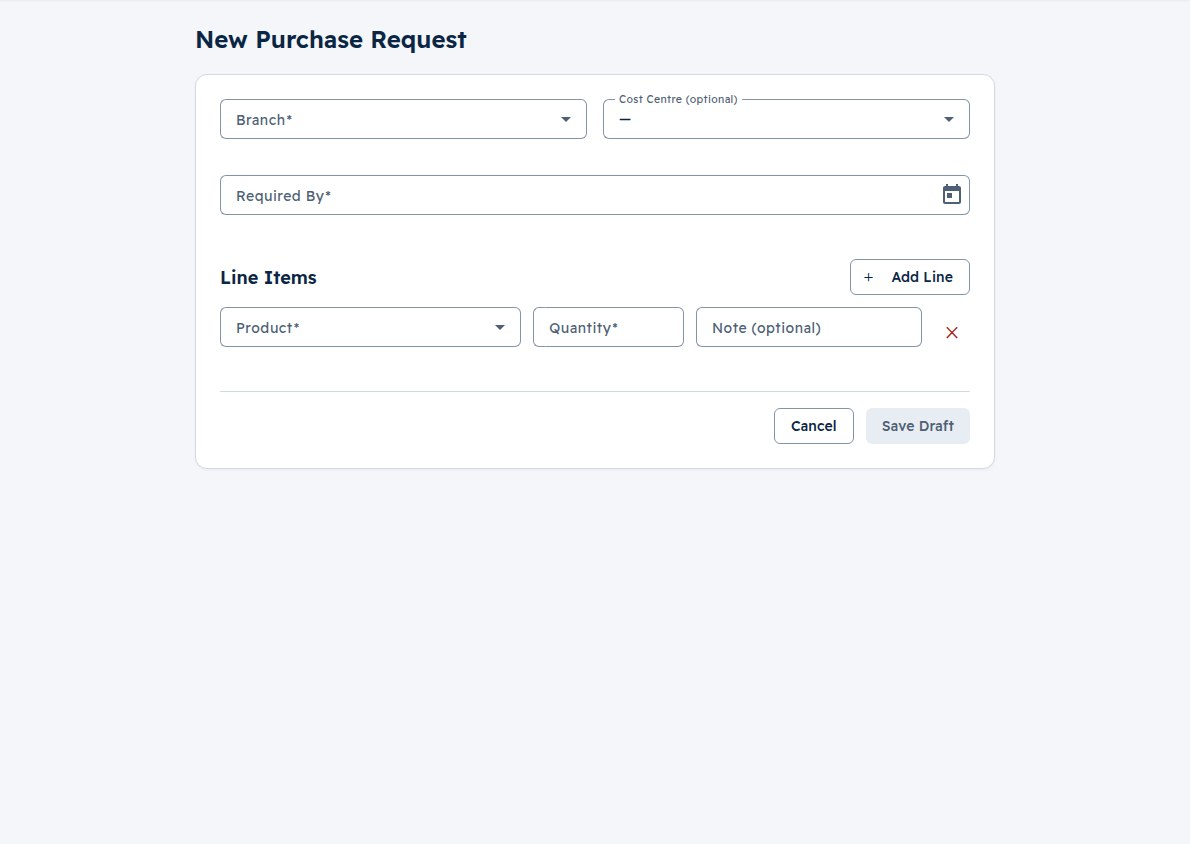
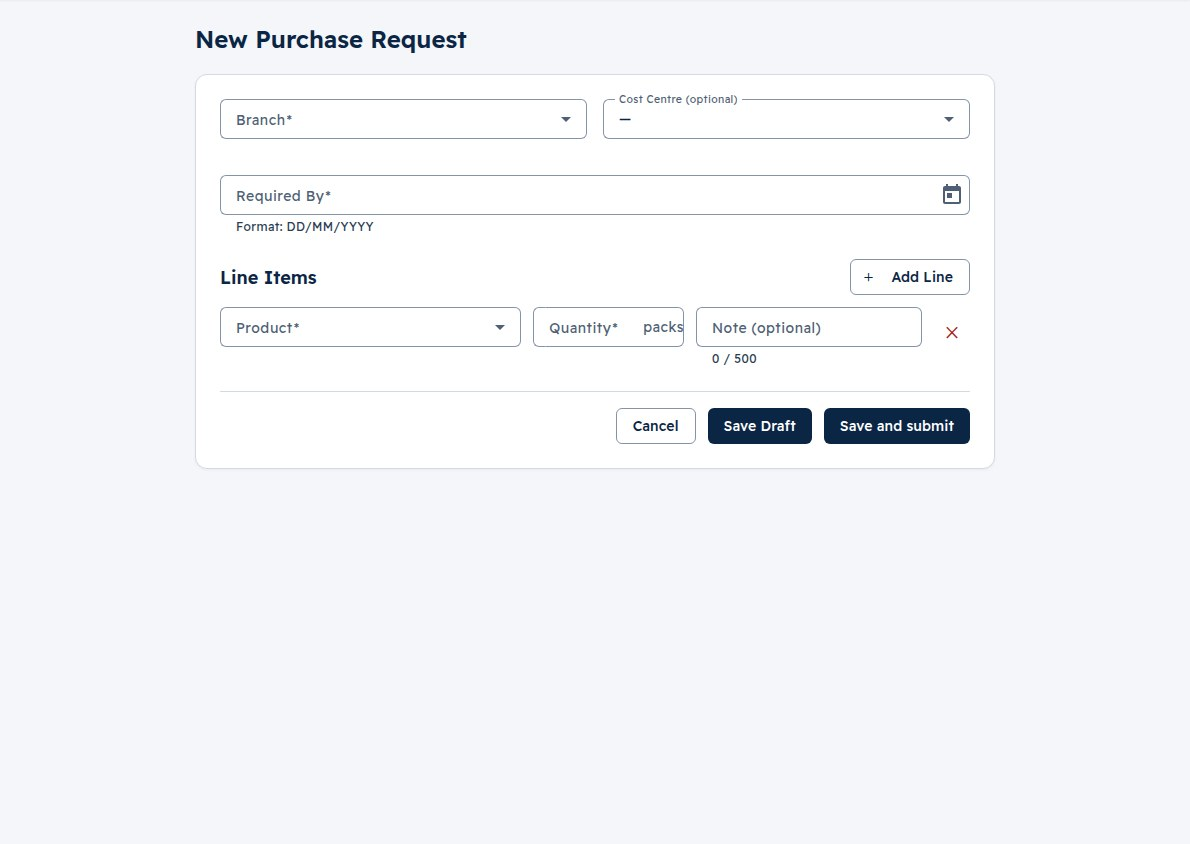
fix(requests): note max length and Arabic-Indic digits in quantity (P-162 leftovers, PPS-186) (#525)
* checkpoint before dispatch

* wip: codex partial P-162 leftovers (verified)

* fix(requests): note max length and Arabic-Indic digits in quantity (PPS-186)

* docs: refresh request form screenshot for the note counter (PPS-186)

---------

diff --git a/apps/web/src/app/features/requests/request-form/request-form.component.spec.ts b/apps/web/src/app/features/requests/request-form/request-form.component.spec.ts
@@ -131,6 +131,90 @@ describe('RequestFormComponent — create mode (T017)', () => {
     fixture.detectChanges();
   });
 
+  describe('PPS-186 note limits and localized quantities', () => {
+    function fillForm(): void {
+      component.form.patchValue({ branch_id: 'b1', required_by_date: '2099-01-01' });
+      component.lines.at(0).patchValue({ workspace_product_id: 'wp1', quantity: '5' });
+    }
+
+    for (const [raw, expected] of [['١٢٫٥', '12.5'], ['١٬٢٠٠', '1200'], ['۱۲٫۵', '12.5'], [' ١ ٢٫٥ ', '12.5']]) {
+      it(`normalizes typed or pasted ${raw} to an ASCII string`, () => {
+        const input: HTMLInputElement = fixture.nativeElement.querySelector('.line-quantity input');
+        expect(input.type).toBe('text');
+        expect(input.inputMode).toBe('decimal');
+        input.value = raw;
+        input.dispatchEvent(new Event('input', { bubbles: true }));
+        expect(component.lines.at(0).controls.quantity.value).toBe(expected);
+        expect(input.value).toBe(expected);
+        expect(component.lines.at(0).controls.quantity.valid).toBeTrue();
+      });
+    }
+
+    for (const raw of ['1,000', '1,5']) {
+      it(`preserves ASCII commas in ${raw} and rejects the quantity with a pattern error`, () => {
+        const input: HTMLInputElement = fixture.nativeElement.querySelector('.line-quantity input');
+        input.value = raw;
+        input.dispatchEvent(new Event('input', { bubbles: true }));
+        const control = component.lines.at(0).controls.quantity;
+        expect(input.value).toBe(raw);
+        expect(control.value).toBe(raw);
+        expect(control.invalid).toBeTrue();
+        expect(control.hasError('pattern')).toBeTrue();
+      });
+    }
+
+    it('keeps letters, zero and excess decimals invalid after input normalization', () => {
+      const input: HTMLInputElement = fixture.nativeElement.querySelector('.line-quantity input');
+      for (const raw of ['abc', '١abc', '٠', '١٫١٢٣٤٥٦٧']) {
+        input.value = raw;
+        input.dispatchEvent(new Event('input', { bubbles: true }));
+        expect(component.lines.at(0).controls.quantity.hasError('pattern')).withContext(raw).toBeTrue();
+      }
+    });
+
+    for (const lang of ['en', 'ar']) {
+      it(`counts Arabic note characters and rejects 501 with inline error and blocked Save (${lang})`, () => {
+        const translate = TestBed.inject(TranslateService);
+        translate.setTranslation('ar', arCatalog);
+        translate.use(lang);
+        fillForm();
+        const note = component.lines.at(0).controls.note;
+        note.setValue('م'.repeat(500));
+        fixture.detectChanges();
+        expect(note.valid).toBeTrue();
+        expect(fixture.nativeElement.querySelector('.line-note input').maxLength).toBe(500);
+        expect(fixture.nativeElement.querySelector('.line-note mat-hint')?.textContent).toContain('500 / 500');
+        note.setValue('م'.repeat(501));
+        note.markAsTouched();
+        fixture.detectChanges();
+        expect(note.hasError('maxlength')).toBeTrue();
+        expect(fixture.nativeElement.querySelector('.line-note mat-error')?.textContent)
+          .toContain(translate.instant('requests.form.noteTooLong'));
+        component.saveDraft();
+        expect(requestsApi.createRequest).not.toHaveBeenCalled();
+      });
+    }
+
+    it('validates notes loaded into an existing draft', () => {
+      requestsApi.getRequest.and.returnValue(of({ ...mockRequest,
+        lines: [{ ...mockRequest.lines[0], note: 'م'.repeat(501) }] }));
+      routeParams.next(convertToParamMap({ id: 'r1' }));
+      expect(component.lines.at(0).controls.note.hasError('maxlength')).toBeTrue();
+    });
+
+    it('maps array-shaped note_too_long server details to the inline note message', () => {
+      fillForm();
+      requestsApi.createRequest.and.returnValue(throwError(() => new HttpErrorResponse({
+        status: 422, error: { details: [{ field: 'lines[0].note', reason: 'note_too_long' }] },
+      })));
+      component.saveDraft();
+      fixture.detectChanges();
+      expect(component.lines.at(0).controls.note.errors?.['server']).toBe('requests.form.noteTooLong');
+      expect(fixture.nativeElement.querySelector('.line-note mat-error')?.textContent)
+        .toContain(TestBed.inject(TranslateService).instant('requests.form.noteTooLong'));
+    });
+  });
+
   describe('PPS-193 view leftovers', () => {
     function show(request: PurchaseRequest): HTMLElement {
       requestsApi.getRequest.and.returnValue(of(request));

diff --git a/apps/web/src/app/features/requests/request-form/request-form.component.ts b/apps/web/src/app/features/requests/request-form/request-form.component.ts
@@ -22,6 +22,7 @@ import { ApiService } from '../../../core/api/api.service';
 import { FormatDatePipe } from '../../../core/format/date.pipe';
 import { FormatService } from '../../../core/format/format.service';
 import { parseIsoDateLocal, toIsoDateOrNull } from '../../../core/format/iso-date';
+import { normaliseDigits } from '../../../core/format/money-input';
 import { trimDecimal } from '../../../core/format/trim-decimal';
 import type {
   ApiError,
@@ -46,6 +47,7 @@ import { AppDateAdapter, provideAppDateAdapter } from '../../../core/i18n/date-a
 const I18N = 'requests';
 
 const SERVER_ERROR_KEYS: Record<string, string> = {
+  note_too_long: 'requests.form.noteTooLong',
   quantity_not_positive: 'requests.errors.quantity_not_positive',
   required_by_in_the_past: 'requests.errors.required_by_in_the_past',
   duplicate_product: 'requests.errors.duplicate_product',
@@ -422,10 +424,17 @@ export class RequestFormComponent implements OnInit {
           nonNullable: true,
           validators: [Validators.required, Validators.pattern(/^(?!0(?:\.0+)?$)\d+(?:\.\d{1,6})?$/)],
         }),
-        note: new FormControl<string>('', { nonNullable: true }),
+        note: new FormControl<string>('', { nonNullable: true, validators: [Validators.maxLength(500)] }),
       }),
     );
     this.formChangeSignal.update((v) => v + 1);
+  }
+
+  normaliseQuantity(event: Event, control: FormControl<string>): void {
+    const input = event.target as HTMLInputElement;
+    const value = normaliseDigits(input.value).replace(/[\u066C\s]/g, '');
+    input.value = value;
+    control.setValue(value);
   }
 
   removeLine(index: number): void {
@@ -931,7 +940,7 @@ export class RequestFormComponent implements OnInit {
               nonNullable: true,
               validators: [Validators.required, Validators.pattern(/^(?!0(?:\.0+)?$)\d+(?:\.\d{1,6})?$/)],
             }),
-            note: new FormControl<string>(line.note ?? '', { nonNullable: true }),
+            note: new FormControl<string>(line.note ?? '', { nonNullable: true, validators: [Validators.maxLength(500)] }),
           });
           this.savedLineMeta.set(group, {
             pack_base_quantity: line.pack_base_quantity ?? null,

diff --git a/apps/web/src/app/features/requests/request-form/request-form.component.html b/apps/web/src/app/features/requests/request-form/request-form.component.html
@@ -209,9 +209,9 @@
                 <input
                   matInput
                   [formControl]="lineGroup.controls.quantity"
-                  [type]="form.disabled ? 'text' : 'number'"
-                  min="0"
-                  step="any"
+                  type="text"
+                  inputmode="decimal"
+                  (input)="normaliseQuantity($event, lineGroup.controls.quantity)"
                 />
                 @if (!form.disabled) {
                   <span matSuffix>{{ 'requests.form.packsSuffix' | translate }}</span>
@@ -235,7 +235,13 @@
 
               <mat-form-field appearance="outline" class="line-note">
                 <mat-label>{{ 'requests.form.noteLabel' | translate }}</mat-label>
-                <input matInput [formControl]="lineGroup.controls.note" />
+                <input matInput [formControl]="lineGroup.controls.note" maxlength="500" />
+                <mat-hint>{{ 'requests.form.noteCounter' | translate: { count: lineGroup.controls.note.value.length } }}</mat-hint>
+                @if (lineGroup.controls.note.hasError('maxlength')) {
+                  <mat-error>{{ 'requests.form.noteTooLong' | translate }}</mat-error>
+                } @else if (lineGroup.controls.note.errors?.['server']; as serverError) {
+                  <mat-error>{{ serverError | translate }}</mat-error>
+                }
               </mat-form-field>
 
               @if (getLineEstimate(lineGroup); as estimate) {

diff --git a/apps/web/src/app/core/format/money-input.ts b/apps/web/src/app/core/format/money-input.ts
@@ -1,3 +1,11 @@
+/** Normalize Arabic digits and decimal separators without removing invalid input. */
+export function normaliseDigits(value: string): string {
+  return value
+    .replace(/[\u0660-\u0669]/g, (digit) => String(digit.charCodeAt(0) - 0x0660))
+    .replace(/[\u06F0-\u06F9]/g, (digit) => String(digit.charCodeAt(0) - 0x06F0))
+    .replace(/\u066B/g, '.');
+}
+
 /**
  * Pure money input parsing helper.
  * Converts user-entered money/numeric strings into canonical decimal strings (/^-?\d+(\.\d+)?$/) or null.
@@ -23,12 +31,7 @@ export function parseMoneyInput(raw: unknown): string | null {
     return null;
   }
 
-  // Convert Arabic-Indic (٠-٩) and Extended Arabic-Indic (۰-۹) digits to ASCII
-  str = str.replace(/[\u0660-\u0669]/g, (d) => String(d.charCodeAt(0) - 0x0660));
-  str = str.replace(/[\u06F0-\u06F9]/g, (d) => String(d.charCodeAt(0) - 0x06F0));
-
-  // Arabic decimal separator ٫ (U+066B) -> '.'
-  str = str.replace(/\u066B/g, '.');
+  str = normaliseDigits(str);
 
   // Arabic thousands separator ٬ (U+066C), spaces, NBSP (\u00A0), narrow NBSP (\u202F), apostrophes (', ’) removed
   str = str.replace(/[\u066C\s\u00A0\u202F'’]/g, '');

diff --git a/apps/api/tests/integration/test_purchase_requests.py b/apps/api/tests/integration/test_purchase_requests.py
@@ -1800,3 +1800,89 @@ def test_idempotent_key_does_not_replay_across_different_tenants(
         act_as(cur, owner_2)
         cur.execute("select tenant_id from purchase_request where id = %s", (req_t2.id,))
         assert cur.fetchone()[0] == owner_2.tenant_id
+
+
+@pytest.mark.parametrize("operation", ["create", "update"])
+@pytest.mark.parametrize("note", ["x" * 501, "م" * 501], ids=["ascii", "arabic"])
+def test_note_too_long_rejected_before_writes(
+    conn: psycopg.Connection, monkeypatch: pytest.MonkeyPatch, operation: str, note: str
+) -> None:
+    with conn.cursor() as cur:
+        owner = make_workspace(cur, "pr-note-limit")
+        branch = _make_branch(cur, owner)
+        product = make_workspace_product(cur, owner, name="Note product")
+        request_id = _make_request(cur, owner, branch)
+        _add_line_no_estimate(cur, owner, request_id, product)
+        cur.execute(
+            "select * from purchase_request_line where purchase_request_id = %s", (request_id,)
+        )
+        original_lines = cur.fetchall()
+    conn.commit()
+    service = _service(conn, monkeypatch)
+    lines = [PurchaseRequestLineInput(workspace_product_id=product, quantity="2", note=note)]
+    with pytest.raises(UnprocessableEntityError) as exc:
+        if operation == "create":
+            service.create_request(
+                bearer_token="token",
+                member=_current_member(owner, owner),
+                payload=PurchaseRequestCreate(
+                    branch_id=branch, required_by_date=date.today() + timedelta(days=7), lines=lines
+                ),
+            )
+        else:
+            service.update_request(
+                bearer_token="token",
+                member=_current_member(owner, owner),
+                request_id=request_id,
+                patch=PurchaseRequestUpdate(lines=lines),
+            )
+    assert exc.value.status_code == 422
+    assert exc.value.details == {"field": "lines[0].note", "reason": "note_too_long"}
+    with conn.cursor() as cur:
+        reset_role(cur)
+        cur.execute("select id from purchase_request where tenant_id = %s", (owner.tenant_id,))
+        assert cur.fetchall() == [(request_id,)]
+        cur.execute(
+            "select * from purchase_request_line where purchase_request_id = %s", (request_id,)
+        )
+        assert cur.fetchall() == original_lines
+
+
+@pytest.mark.parametrize(
+    "note",
+    ["  " + "x" * 500 + "  ", "  " + "م" * 500 + "  ", " \t\n " * 200],
+    ids=["ascii", "arabic", "blank"],
+)
+def test_note_trimmed_boundary_stored_on_create_and_update(
+    conn: psycopg.Connection, monkeypatch: pytest.MonkeyPatch, note: str
+) -> None:
+    with conn.cursor() as cur:
+        owner = make_workspace(cur, "pr-note-boundary")
+        branch = _make_branch(cur, owner)
+        product = make_workspace_product(cur, owner, name="Note product")
+    conn.commit()
+    service = _service(conn, monkeypatch)
+    lines = [PurchaseRequestLineInput(workspace_product_id=product, quantity="2", note=note)]
+    request, created = service.create_request(
+        bearer_token="token",
+        member=_current_member(owner, owner),
+        payload=PurchaseRequestCreate(
+            branch_id=branch, required_by_date=date.today() + timedelta(days=7), lines=lines
+        ),
+    )
+    assert created
+    for operation in ["create", "update"]:
+        if operation == "update":
+            service.update_request(
+                bearer_token="token",
+                member=_current_member(owner, owner),
+                request_id=request.id,
+                patch=PurchaseRequestUpdate(lines=lines),
+            )
+        with conn.cursor() as cur:
+            reset_role(cur)
+            cur.execute(
+                "select note from purchase_request_line where purchase_request_id = %s",
+                (request.id,),
+            )
+            assert cur.fetchall() == [(note.strip() or None,)]

diff --git a/apps/api/tests/unit/test_purchase_request_validation.py b/apps/api/tests/unit/test_purchase_request_validation.py
@@ -207,3 +207,24 @@ def test_validate_cost_centre_not_found() -> None:
         "field": "cost_centre_id",
         "reason": "cost_centre_not_found",
     }
+
+
+@pytest.mark.parametrize("character", ["x", "م"])
+def test_note_length_rejects_501_characters(character: str) -> None:
+    lines = [
+        PurchaseRequestLineInput(workspace_product_id=uuid4(), quantity="1"),
+        PurchaseRequestLineInput(
+            workspace_product_id=uuid4(), quantity="1", note=f"  {character * 501}  "
+        ),
+    ]
+    with pytest.raises(UnprocessableEntityError) as exc:
+        RequestsService()._validate_request_lines(lines)
+    assert exc.value.status_code == 422
+    assert exc.value.details == {"field": "lines[1].note", "reason": "note_too_long"}
+
+
+@pytest.mark.parametrize("note", ["  " + "x" * 500 + "  ", "  " + "م" * 500 + "  ", " \t\n " * 200])
+def test_note_length_accepts_trimmed_boundary_and_blank(note: str) -> None:
+    line = PurchaseRequestLineInput(workspace_product_id=uuid4(), quantity="1", note=note)
+    RequestsService()._validate_request_lines([line])
+    assert line.note == (note.strip() or None)

diff --git a/apps/api/src/procurepilot_api/modules/requests/schemas.py b/apps/api/src/procurepilot_api/modules/requests/schemas.py
@@ -4,7 +4,7 @@ from datetime import date, datetime
 from typing import Literal
 from uuid import UUID
 
-from pydantic import BaseModel, ConfigDict, Field, StrictStr
+from pydantic import BaseModel, ConfigDict, Field, StrictStr, field_validator
 
 type PurchaseRequestStatus = Literal[
     "draft", "submitted", "approved", "rejected", "withdrawn", "ordered", "delivered"
@@ -63,6 +63,11 @@ class PurchaseRequestLineInput(StrictApiModel):
     workspace_product_id: UUID
     quantity: StrictStr = Field(pattern=r"^\d+(\.\d{1,6})?$")
     note: str | None = None
+
+    @field_validator("note")
+    @classmethod
+    def trim_note(cls, value: str | None) -> str | None:
+        return value.strip() or None if value is not None else None
 
 
 class ApprovalStep(BaseModel):

diff --git a/apps/api/src/procurepilot_api/modules/requests/service.py b/apps/api/src/procurepilot_api/modules/requests/service.py
@@ -167,6 +167,10 @@ class RequestsService:
     def _validate_request_lines(self, lines: Sequence[PurchaseRequestLineInput]) -> None:
         seen: set[UUID] = set()
         for i, line in enumerate(lines):
+            if line.note is not None and len(line.note.strip()) > 500:
+                raise UnprocessableEntityError(
+                    details={"field": f"lines[{i}].note", "reason": "note_too_long"}
+                )
             try:
                 qty = Decimal(str(line.quantity))
             except Exception:
